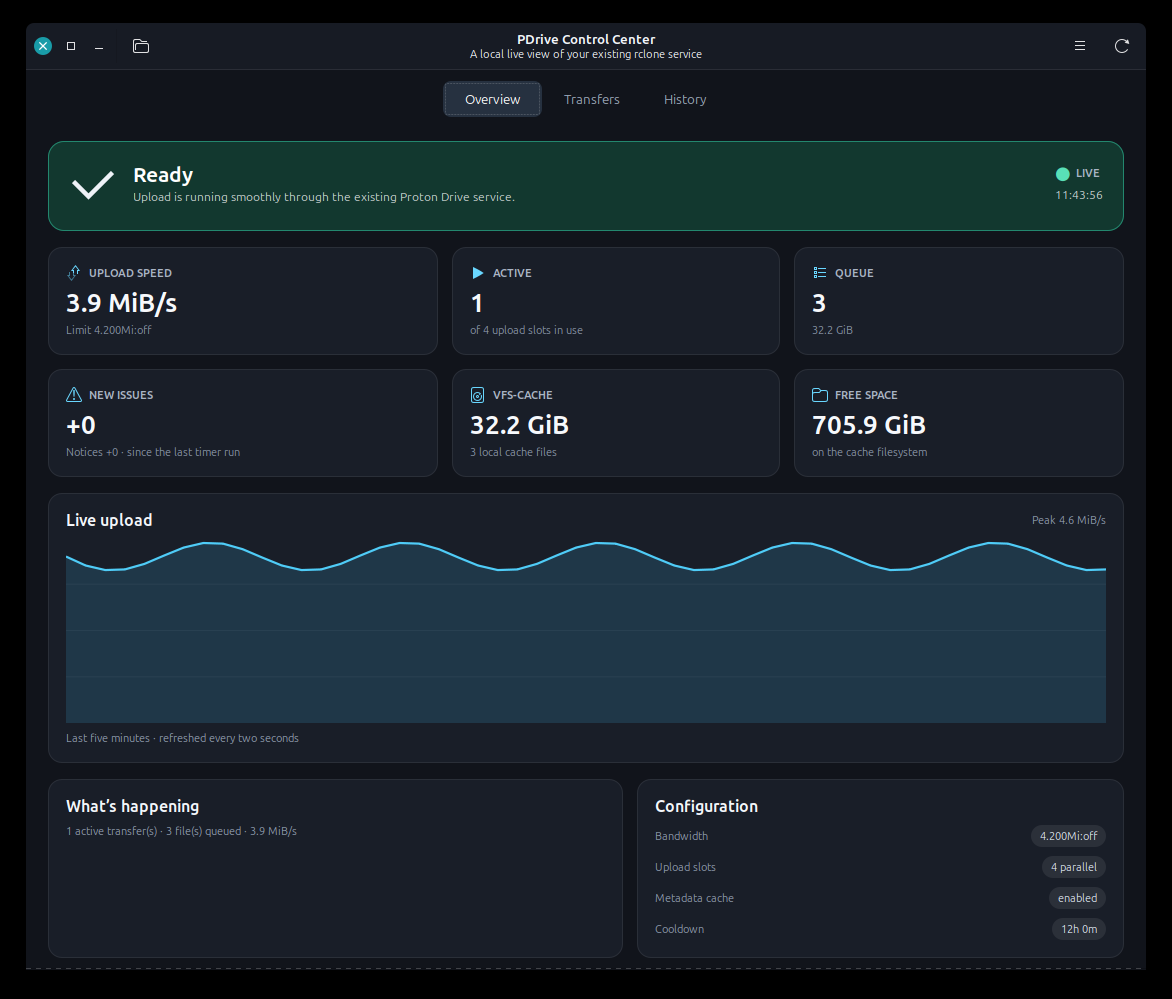
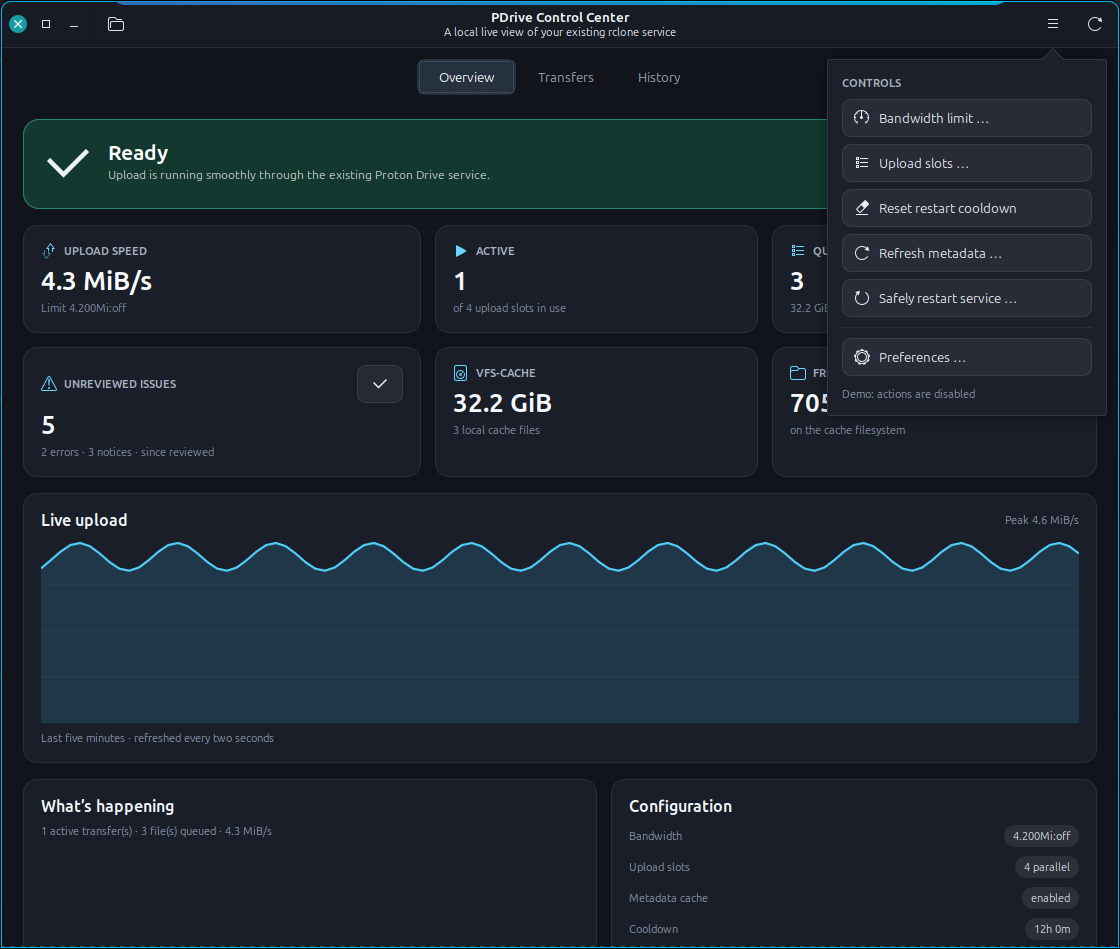
Polish control center review UX

Changed region(s): [[0.0, 0.0, 1.0, 1.0], [0.375, 0.3667, 0.5, 0.4584]]

diff --git a/README.md b/README.md
@@ -23,7 +23,7 @@
        alt="PDrive Control Center showing live upload speed, queue, cache and health">
 </p>
 
-<p align="center"><sub>Real application UI with synthetic, privacy-safe demo data.</sub></p>
+<p align="center"><sub>Real application UI with synthetic, privacy-safe demo data, framed by <a href="https://github.com/ClaudiuSchuster/cinnamon-active-window-highlight">Active Window Highlight</a>.</sub></p>
 
 The toolkit integrates a writable owner-only FUSE mount into Nemo, starts after
 desktop login, keeps the rclone configuration encrypted in GNOME Keyring,
@@ -149,8 +149,10 @@ pdrive-ui
 
 It shows current health, live upload speed, active transfers, the persistent
 VFS queue, recent transfers, cache/free-space values, bandwidth and upload-slot
-configuration, plus the privacy-preserving 90-minute watchdog history. The
-speed graph refreshes every two seconds.
+configuration, unreviewed error/notice events and the privacy-preserving
+90-minute watchdog history. The issue counter persists across timer runs and UI
+restarts until its checkmark is pressed; the speed graph refreshes every two
+seconds.
 
 The UI does **not** start rclone, log in to Proton or expose a web server. Its
 fast `pdrive-state` backend reads the existing owner-only RC Unix socket,
@@ -159,8 +161,9 @@ to the local UI process and are never appended to watchdog state or history.
 
 The control menu delegates bandwidth, slot and cooldown changes to the existing
 validated helpers. Metadata refresh and service restart keep their explicit
-terminal confirmation. Under **Preferences**, the window can close into
-Cinnamon's tray and optionally start there with the desktop session. The latter
+terminal confirmation. Its header popover also exposes **Preferences**, where
+the window can be kept running in Cinnamon's tray and optionally start there
+with the desktop session. The latter
 creates a single marked user autostart file; a normal menu launch still opens
 visibly. The interface defaults to English and can be switched to German; the
 choice takes effect after restarting the Control Center.

diff --git a/docs/TROUBLESHOOTING.md b/docs/TROUBLESHOOTING.md
@@ -408,6 +408,21 @@ dialog is saving. A missing panel icon normally means the Ayatana binding is
 missing; reinstall `gir1.2-ayatanaappindicator3-0.1`. The application retains a
 legacy GTK tray fallback, but Cinnamon's supported AppIndicator path is preferred.
 
+If Cinnamon shows the correct icon for an existing favorite but a generic gear
+for the same application in search results, inspect the menu assets:
+
+```bash
+ls -l \
+  ~/.local/share/applications/io.github.claudiuschuster.PDriveControl.desktop \
+  ~/.local/share/icons/hicolor/scalable/apps/io.github.claudiuschuster.PDriveControl.svg
+```
+
+Both should be regular installed files. Development symlinks into a Git checkout
+can leave an already constructed Cinnamon application button stale because a
+target-file edit does not change the watched applications directory. Re-running
+`./install.sh` installs regular copies and refreshes the desktop database; it
+does not restart the mount or interrupt transfers.
+
 ## Disk space and cache cleanup
 
 The mount targets a 25 GiB cache and preserves at least 50 GiB free space, but

diff --git a/docs/OPERATIONS.md b/docs/OPERATIONS.md
@@ -148,6 +148,13 @@ does not modify the privacy-preserving watchdog files, start a second rclone,
 read the encrypted remote configuration, open a network listener or contact
 Proton independently.
 
+The overview's **Unreviewed issues** card uses persistent watermarks for the
+current rclone log's cumulative error and notice counters. It therefore does
+not reset at the next 90-minute timer sample. The first 0.3.x start establishes
+a zero baseline; pressing the card's checkmark advances that baseline without
+deleting logs, watchdog history or current health warnings. Counter resets
+caused by log rotation are treated as a fresh log rather than a negative delta.
+
 The control popover calls existing helpers instead of duplicating their
 validation:
 
